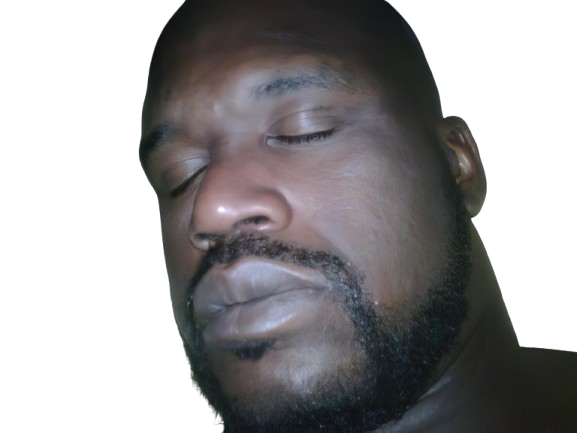
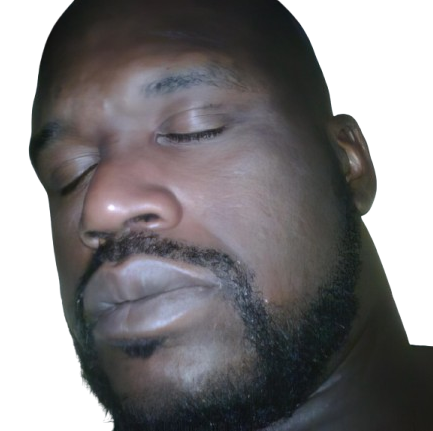
Fix CI/CD deployment and update sleep functionality (#21)
* feat: update sleep time window and add I Sleep message

- Temporarily change sleep time from 11 PM to 10 PM for testing
- Show 'I Sleep' message during sleep hours
- Add dynamic browser title (Zzz vs Naptime?)
- Display i-sleep.png image when message is 'I Sleep'
- Update sleep time recommendations to emphasize SHOULD be asleep

* fix: remove Python setup from CI/CD workflow

- Remove Python setup step that was looking for backend/requirements.txt
- Remove backend linting and testing steps for non-existent Python backend
- This app uses Node.js, not Python for the backend

* feat: detect when Oura hasn't synced last night's data

- Add detection for stale sleep data after 8 AM Mountain Time
- Show 'Oura Hasn't Synced' message when using old data
- Indicate how many days behind the data is
- Help users understand when sync is needed

* fix: revert sleep time window back to 11 PM

- Change sleep window from 10 PM - 7 AM back to 11 PM - 7 AM
- Update both backend and frontend logic
- Remove temporary testing change

* fix: address code review feedback for robustness

- Use existing getMountainTimeInfo() method instead of manual parsing
- Ensure frontend uses Mountain Time consistently like backend
- Improve timezone handling reliability

Addresses PR review comments from GitHub Copilot

* fix: resolve data mutation issue in nap-calculator.js

- Replace direct mutation of sleepRecord object with separate variables
[…]

diff --git a/src/services/nap-calculator.js b/src/services/nap-calculator.js
@@ -54,11 +54,32 @@ class NapCalculator {
       (record) => record.day === today && record.type === "long_sleep",
     );
 
+    // Check if we should have today's data but don't (using Mountain Time)
+    const timeInfo = this.getMountainTimeInfo();
+    // After 8 AM MT, Oura usually has synced last night's data
+    const OURA_SYNC_HOUR = 8;
+    const shouldHaveTodaysData = timeInfo.hour >= OURA_SYNC_HOUR;
+    
+    // Track if data is stale
+    let isStaleData = false;
+    let daysBehind = 0;
+    
     // If no sleep for today yet, get the most recent long_sleep
     if (!sleepRecord) {
       sleepRecord = sleepData?.data?.find(
         (record) => record.type === "long_sleep",
       );
+      
+      // Check if this fallback data is stale
+      if (sleepRecord && shouldHaveTodaysData) {
+        const recordDate = new Date(sleepRecord.day);
+        const todayDate = new Date(today);
+        daysBehind = Math.floor((todayDate - recordDate) / (1000 * 60 * 60 * 24));
+        
+        if (daysBehind > 0) {
+          isStaleData = true;
+        }
+      }
     }
 
     // If still no long_sleep, fall back to first record that's not a nap
@@ -82,11 +103,11 @@ class NapCalculator {
           timeZone: "America/Denver",
           hour: "2-digit",
           hour12: false,
-        })
+        }),
       );
       const timeWindow = this.getTimeWindow(hour);
       const noDataConfig = this.MESSAGE_CONFIG[timeWindow]["no-data"];
-      
+
       // Return special status when we have no data
       return {
         needsNap: false,
@@ -95,8 +116,8 @@ class NapCalculator {
         sleepCategory: "no-data",
         napPriority: "unknown",
         quality: "Unknown",
-        isNapTime: timeWindow === 'nap',
-        isSleepTime: timeWindow === 'sleep',
+        isNapTime: timeWindow === "nap",
+        isSleepTime: timeWindow === "sleep",
         currentTime: new Date().toLocaleString("en-US", {
           timeZone: "America/Denver",
           timeStyle: "short",
@@ -141,7 +162,17 @@ class NapCalculator {
 
     // Get message configuration
     let messageConfig;
-    if (hasNappedToday) {
+    
+    // Check if data is stale
+    if (isStaleData && shouldHaveTodaysData) {
+      messageConfig = {
+        message: "Oura Hasn't Synced",
+        recommendation: `Last night's sleep data hasn't synced yet. Showing data from ${daysBehind} day(s) ago. Try syncing your Oura ring.`
+      };
+    } else if (isSleepTime) {
+      // During sleep time, always show "I Sleep" regardless of nap status
+      messageConfig = this.MESSAGE_CONFIG[timeWindow][sleepState];
+    } else if (hasNappedToday) {
       messageConfig = this.MESSAGE_CONFIG.napped;
     } else {
       messageConfig = this.MESSAGE_CONFIG[timeWindow][sleepState];
@@ -201,7 +232,6 @@ class NapCalculator {
     };
   }
 
-
   /**
    * Convert seconds to hours with decimal precision
    * @param {number} seconds - Sleep duration in seconds
@@ -232,24 +262,24 @@ class NapCalculator {
   static MESSAGE_CONFIG = {
     sleep: {
       shambles: {
-        message: "Sleep Time",
-        recommendation: "Emily should be asleep right now.",
+        message: "I Sleep",
+        recommendation: "Emily SHOULD be asleep right now.",
       },
       struggling: {
-        message: "Sleep Time",
-        recommendation: "Emily should be asleep right now.",
+        message: "I Sleep",
+        recommendation: "Emily SHOULD be asleep right now.",
       },
       ok: {
-        message: "Sleep Time",
-        recommendation: "Emily should be asleep right now.",
+        message: "I Sleep",
+        recommendation: "Emily SHOULD be asleep right now.",
       },
       oversleep: {
-        message: "Sleep Time",
-        recommendation: "Emily should be asleep right now.",
+        message: "I Sleep",
+        recommendation: "Emily SHOULD be asleep right now.",
       },
       "no-data": {
-        message: "Sleep Time",
-        recommendation: "Emily should be asleep right now.",
+        message: "I Sleep",
+        recommendation: "Emily SHOULD be asleep right now.",
       },
     },
     "pre-nap": {
@@ -370,7 +400,6 @@ class NapCalculator {
     return state;
   }
 
-
   /**
    * Get current Mountain Time information
    * @returns {Object} Time information object
@@ -392,7 +421,7 @@ class NapCalculator {
       fullFormatted: now.toLocaleString("en-US", {
         timeZone: "America/Denver",
       }),
-      isNapTime: this.getTimeWindow(mountainTime.getHours()) === 'nap',
+      isNapTime: this.getTimeWindow(mountainTime.getHours()) === "nap",
     };
   }
 

diff --git a/frontend/src/App.tsx b/frontend/src/App.tsx
@@ -115,13 +115,22 @@ function App() {
     return () => clearInterval(interval)
   }, [fetchNapStatus])
 
-  // Update favicon based on nap status
+  // Update favicon and title based on nap status
   useEffect(() => {
     if (!napStatus) return
 
-    // Determine if it's sleep time (11 PM - 7 AM)
-    const currentHour = new Date().getHours()
-    const isSleepTime = currentHour >= 23 || currentHour < 7
+    // Determine if it's sleep time (11 PM - 7 AM) in Mountain Time
+    const mountainTimeHour = parseInt(
+      new Date().toLocaleString('en-US', {
+        timeZone: 'America/Denver',
+        hour: '2-digit',
+        hour12: false
+      })
+    )
+    const isSleepTime = mountainTimeHour >= 23 || mountainTimeHour < 7
+    
+    // Update document title
+    document.title = isSleepTime ? 'Zzz' : 'Naptime?'
     
     // Use i-sleep.png when should nap OR it's sleep time
     // Use real-shit.png otherwise
@@ -155,16 +164,22 @@ function App() {
             ) : (
               <>
                 <h1 className={`nap-message ${napStatus.shouldNap ? 'needs-nap' : 'no-nap'}`}>
-                  {napStatus.hasNappedToday ? 'Napping Has Occurred' : napStatus.message}
+                  {napStatus.message}
                 </h1>
                 
-                {napStatus.hasNappedToday && (
+                {napStatus.message === "I Sleep" ? (
+                  <img 
+                    src="/i-sleep.png" 
+                    alt="I Sleep" 
+                    className="sleep-image"
+                  />
+                ) : napStatus.hasNappedToday ? (
                   <img 
                     src="/good-for-her.gif" 
                     alt="Good for her" 
                     className="nap-gif"
                   />
-                )}
+                ) : null}
                 
                 <button 
                   className="details-toggle"

diff --git a/frontend/src/App.css b/frontend/src/App.css
@@ -38,6 +38,14 @@
   border-radius: 8px;
 }
 
+.sleep-image {
+  width: 100%;
+  max-width: 300px;
+  margin: 2rem auto;
+  display: block;
+  border-radius: 8px;
+}
+
 .details-toggle {
   margin-top: 2rem;  /* More space */
   background: none;
